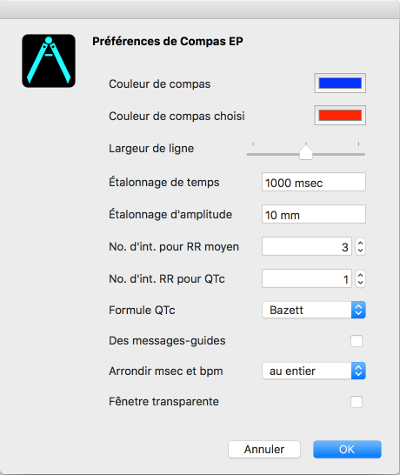
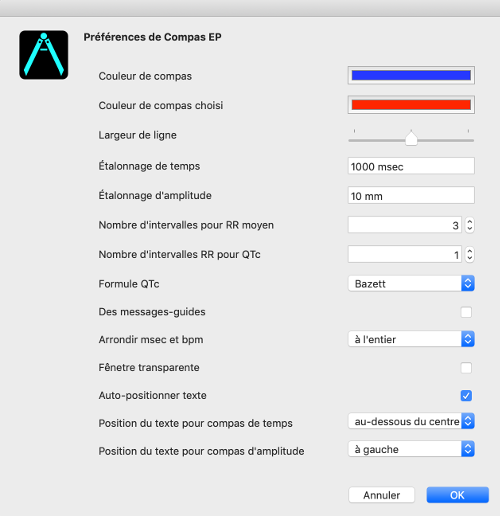
Update French preferences image and help text

diff --git a/EPCalipersHelp/Contents/Resources/fr.lproj/pgs/preferences.html b/EPCalipersHelp/Contents/Resources/fr.lproj/pgs/preferences.html
@@ -229,9 +229,9 @@ for the JavaScript code in this tag.
 </head>
 <body>
 <div id="content">
-<div id="outline-container-org80c97ba" class="outline-2">
-<h2 id="org80c97ba"><img src="../../shrd/icon_32x32@2x.png" alt="icon_32x32@2x.png" /> Préférences</h2>
-<div class="outline-text-2" id="text-org80c97ba">
+<div id="outline-container-org4954ed6" class="outline-2">
+<h2 id="org4954ed6"><img src="../../shrd/icon_32x32@2x.png" alt="icon_32x32@2x.png" /> Préférences</h2>
+<div class="outline-text-2" id="text-org4954ed6">
 <p>
 Les préférences d’application peuvent être choisies en utilisant la commande de menu <b>Compas EP | Préférences</b>.  Vous pouvez changer les couleurs de compas, la larguer de ligne de compas, ainsi que l’intervalle d”étalonnage par défaut et le nombre d’intervalles pour calculer les intervalles moyens.  Par exemple, si vous utilisez toujours un intervalle RR pour calculer le QTc, mettre le <i>Nombre d’intervalles RR pour QTc</i> à un intervalle.  Noter que vous pouvez changer ces nombres quand vous prenez les mesures.  Vous pouvez aussi utilisez le dialog de préférences pour activer la fênetre transparente.
 </p>
@@ -242,9 +242,9 @@ Les préférences d’application peuvent être choisies en utilisant la command
 <p><span class="figure-number">Figure 1: </span>Préférences</p>
 </div>
 </div>
-<div id="outline-container-orgd2a4bda" class="outline-3">
-<h3 id="orgd2a4bda">Préférences expliquées</h3>
-<div class="outline-text-3" id="text-orgd2a4bda">
+<div id="outline-container-org616100d" class="outline-3">
+<h3 id="org616100d">Préférences expliquées</h3>
+<div class="outline-text-3" id="text-org616100d">
 <ul class="org-ul">
 <li>Couleur de compas: C’est la couleur d’un compas ajouté qui est non choisi.  Cette couleur peut étre plus tard changée par un clic-droit sur le compas et puis en choisissant <b>Couleur de compas</b>.</li>
 <li>Couleur de compas choisi: C’est la couleur d’un compas sélectioné.</li>
@@ -257,6 +257,9 @@ Les préférences d’application peuvent être choisies en utilisant la command
 <li>Des message-guides: Des messages-guides sont utiles quand vous êtes en train d’apprendre l’application. Vous pouvez l’accélérer en désactivant cette option.  Des messages-guides vous guident dans les étapes d’étalonnage et de mesures.</li>
 <li>Arrondir msec et bpm: Choisir comment arrondir les intervalles dans msec et les fréquences.  Les choix sont d’arrondir à l’entier le plus proche (examples: 305,463 devient 305, 1010,728 devient 1011), à 4 chiffres (305,5 et 1011), à 1 decimale (305,5 et 1010,7), ou à 2 decimales (305,46 et 1010,73).  Noter que les valeurs dans secs ou autres unités et les valeurs calculées comme le QTc sont toujours arrondées à 4 chiffres.</li>
 <li>Fênetre transparente: La fênetre primaire doit transparente.  <b>Compas EP</b> peut alors être utilisé comme un compas flottant pour mesurer des images sur votre bureau.</li>
+<li>Auto-positionner texte: Positionner automatiquement le texte de chaque compas par rapport au compas.  Par exemple, si la position du texte est à droite et le compas est trop proche au côté droit de la fenêtre, elle changera à gauche.</li>
+<li>Position du texte pour compas de temps: Positionner le texte pour les compas de temps au-dessus du centre, au-dessous du centre, à gauche ou à droite du compas.</li>
+<li>Position du texte pour compas d'amplitude: Positionner le texte pour les compas d'amplitude au-dessus, au-dessous, à gauche ou à droite du compas.</li>
 </ul>
 </div>
 </div>
